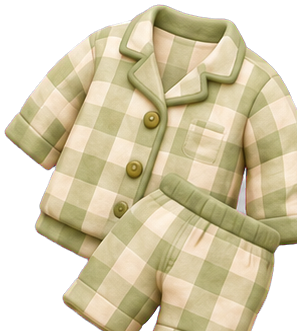
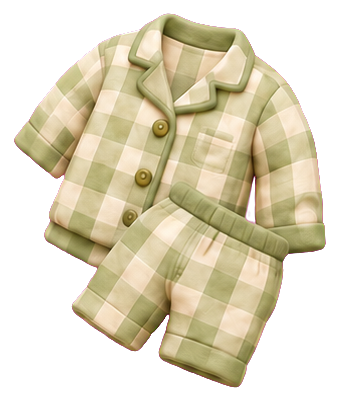
수집품 에셋을 통짜 시트에서 직접 재추출 (잘림 해결)
원인:
- zip에 함께 온 split_items.py 가 만든 개별 컷이 이미 잘려 있었다
  (잠옷 오른쪽 소매·반바지 밑단). 통짜 시트에는 온전함을 확인
- 물건이 격자 셀을 최대 119px 넘어가 셀 단위로 자르면 잘릴 수밖에 없는 구조

해결:
- 격자 대신 **연결요소(덩어리) 단위**로 12개를 찾아 여백 14px 두고 추출
- 마젠타 키잉 + 디스필 적용, 컬러 12 / 그레이 12 총 24개
- 검증: 24개 모두 경계 여백 4px 이상 = 잘린 파일 0

적용:
- 수집함은 얻으면 컬러(it_*), 잠기면 회색 실루엣(sil_*)
- HUD의 이번 판 수집품도 같은 방식(회색 → 컬러)
- 인게임 바닥 아이템도 새 컬러 컷 사용

Claude-Session: https://claude.ai/code/session_0111YUZQqwRvMGsnxcS6qdpi

diff --git a/js/main.js b/js/main.js
@@ -43,7 +43,7 @@ function showReward(name) {
   clearTimeout(rewardTimer);
   const item = name && ITEMS.find(i => i.name === name);
   if (!item) { box.classList.add('hidden'); return; }
-  $('rewardImg').src = `${KIT}${item.img}.png`;
+  $('rewardImg').src = `${KIT}it_${item.img}.png`;
   $('rewardName').textContent = item.name;
   box.classList.add('hidden');
   // 별이 다 박힌 뒤에 등장시켜 연출이 겹치지 않게 한다
@@ -71,21 +71,21 @@ const screens = ['screenTitle', 'screenStages', 'screenIntro', 'screenClear',
 
 const KIT = 'assets/room/ui/kit/';
 
-// 수집품 12종 — 앞 4개는 스테이지 해금 아이템(stages.json의 unlock과 이름이 같다),
-// 나머지는 아직 준비 중인 실루엣 자리.
+// 수집품 — 아이템마다 컬러(it_*)와 회색(sil_*) 두 벌이 있다.
+// 얻으면 컬러, 아직이면 회색 실루엣으로 보여준다.
+// 앞 4개는 스테이지 해금 아이템(stages.json 의 unlock 과 이름이 같아야 매칭된다).
 const ITEMS = [
-  { name: '구겨진 잠옷', img: 'it_pajama' },
-  { name: '노란 고무장갑', img: 'it_gloves' },
-  { name: '작은 화분', img: 'it_plant' },
-  { name: '새 운동화', img: 'it_sneakers' },
-  { name: '머그컵', img: 'sil_mug', sil: true },
-  { name: '탁상 램프', img: 'sil_lamp', sil: true },
-  { name: '분무기', img: 'sil_spray', sil: true },
-  { name: '물뿌리개', img: 'sil_can', sil: true },
-  { name: '티슈 상자', img: 'sil_tissue', sil: true },
-  { name: '유리병', img: 'sil_cushion', sil: true },
-  { name: '쿠션', img: 'sil_cushion', sil: true },
-  { name: '장바구니', img: 'sil_tote', sil: true },
+  { name: '구겨진 잠옷', img: 'pajama' },
+  { name: '노란 고무장갑', img: 'gloves' },
+  { name: '작은 화분', img: 'plant' },
+  { name: '새 운동화', img: 'sneakers' },
+  { name: '머그컵', img: 'mug' },
+  { name: '탁상 램프', img: 'lamp' },
+  { name: '분무기', img: 'spray' },
+  { name: '물뿌리개', img: 'can' },
+  { name: '티슈 상자', img: 'tissue' },
+  { name: '쿠션', img: 'cushion' },
+  { name: '장바구니', img: 'basket' },
 ];
 
 // 도전과제 — progress(cleared, stars)로 진행도를 계산한다
@@ -130,7 +130,8 @@ function makeGame() {
       const item = st?.item && ITEMS.find(i => i.name === st.item.name);
       box.classList.toggle('hidden', got === null || !item);
       if (!item) return;
-      box.querySelector('img').src = `${KIT}${item.img}.png`;
+      // 아직이면 회색, 주우면 컬러
+      box.querySelector('img').src = `${KIT}${got ? 'it' : 'sil'}_${item.img}.png`;
       box.classList.toggle('got', !!got);
     },
     onUndoState: (can) => { $('btnUndo').disabled = !can; },
@@ -297,8 +298,9 @@ function buildCollection() {
   ITEMS.forEach((it, i) => {
     const got = i < owned;                       // 앞에서부터 순서대로 해금
     const cell = el('div', 'slot ' + (got ? 'got' : 'lock'));
-    cell.innerHTML = `<img class="thing" src="${KIT}${it.img}.png" alt="${it.name}">`
-      + (got ? '' : `<img class="pad" src="${KIT}lock_item.png" alt="">`);
+    // 얻은 건 컬러(it_), 아직이면 회색(sil_)
+    cell.innerHTML = `<img class="thing" src="${KIT}${got ? 'it' : 'sil'}_${it.img}.png" alt="${it.name}">`
+      + (got ? '' : `<img class="pad" src="${KIT}sil_padlock.png" alt="">`);
     cell.title = got ? it.name : '아직 못 얻었어요';
     grid.appendChild(cell);
   });

diff --git a/css/style.css b/css/style.css
@@ -151,8 +151,8 @@ button:disabled { opacity: .45; filter: none; cursor: default; }
   filter: drop-shadow(0 calc(6px * var(--k)) calc(10px * var(--k)) rgba(110, 84, 56, .35));
 }
 .hud-item img { max-width: 66%; max-height: 66%; width: auto; height: auto; object-fit: contain;
-  opacity: .35; filter: grayscale(1) brightness(1.1); transition: opacity .3s ease, filter .3s ease; }
-.hud-item.got img { opacity: 1; filter: none; }
+  transition: opacity .3s ease; opacity: .9; }
+.hud-item.got img { opacity: 1; }
 .hud-item.got { animation: itemPop .45s cubic-bezier(.2, 1.5, .4, 1); }
 @keyframes itemPop { 0% { transform: scale(1); } 45% { transform: scale(1.22); } 100% { transform: scale(1); } }
 
@@ -259,7 +259,8 @@ button:disabled { opacity: .45; filter: none; cursor: default; }
   content: ''; position: absolute; width: 78%; height: 78%; border-radius: 50%;
   background: radial-gradient(closest-side, rgba(255, 205, 105, .55), rgba(255, 205, 105, 0));
 }
-.slot.lock > img.thing { opacity: .5; filter: grayscale(.35); }
+/* 잠긴 칸은 회색 에셋(sil_*)을 쓰므로 별도 필터 없이 살짝만 낮춘다 */
+.slot.lock > img.thing { opacity: .85; }
 .slot > img.pad { position: absolute; max-width: 30%; max-height: 34%; width: auto; height: auto; }
 
 /* ---- 도전과제 목록 ---- */

diff --git a/js/assets.js b/js/assets.js
@@ -29,7 +29,7 @@ const MANIFEST = {
   'item_구겨진 잠옷': R + 'ui/kit/it_pajama.png',
   'item_노란 고무장갑': R + 'ui/kit/it_gloves.png',
   'item_작은 화분': R + 'ui/kit/it_plant.png',
-  'item_새 운동화': R + 'ui/kit/it_sneakers.png',
+  'item_새 운동화': R + 'ui/kit/it_sneakers.png',   // 모두 무손실 원본 컷
 };
 
 export const IMG = {};
